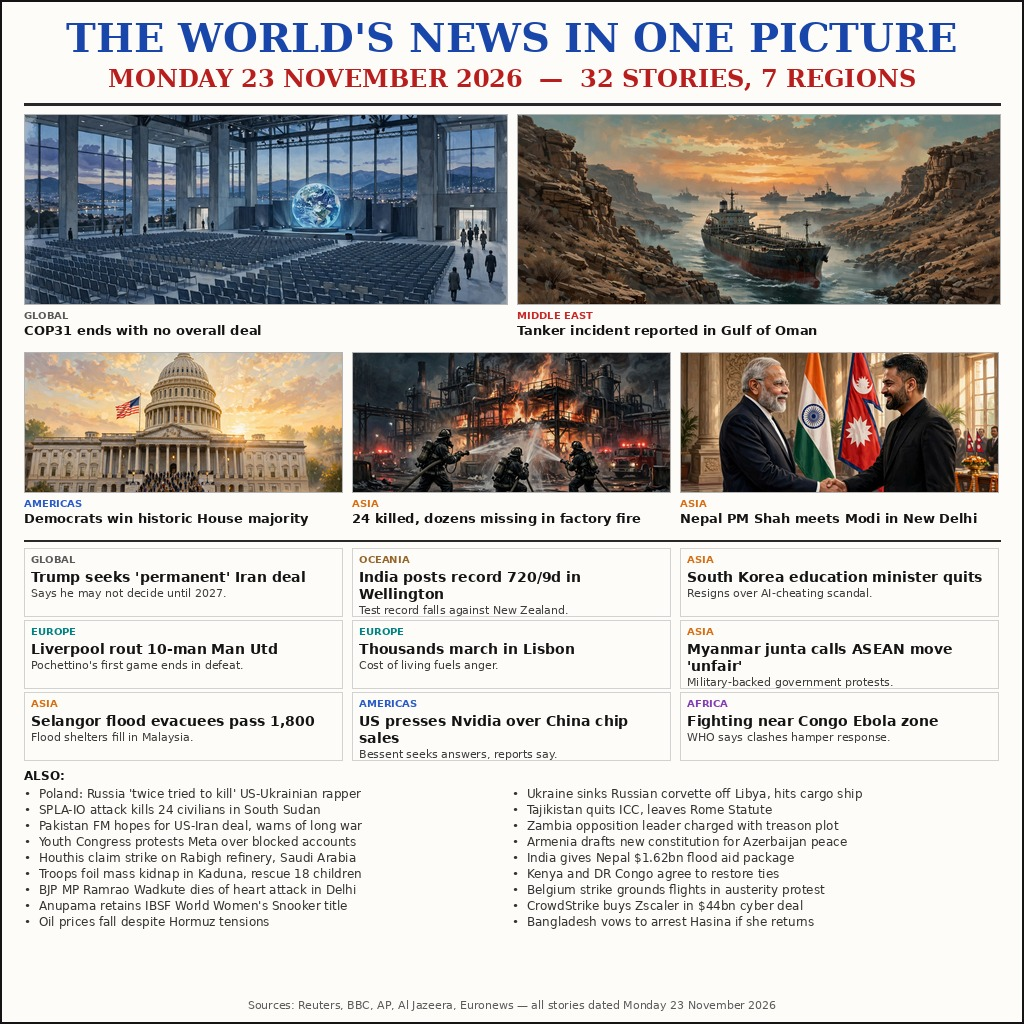
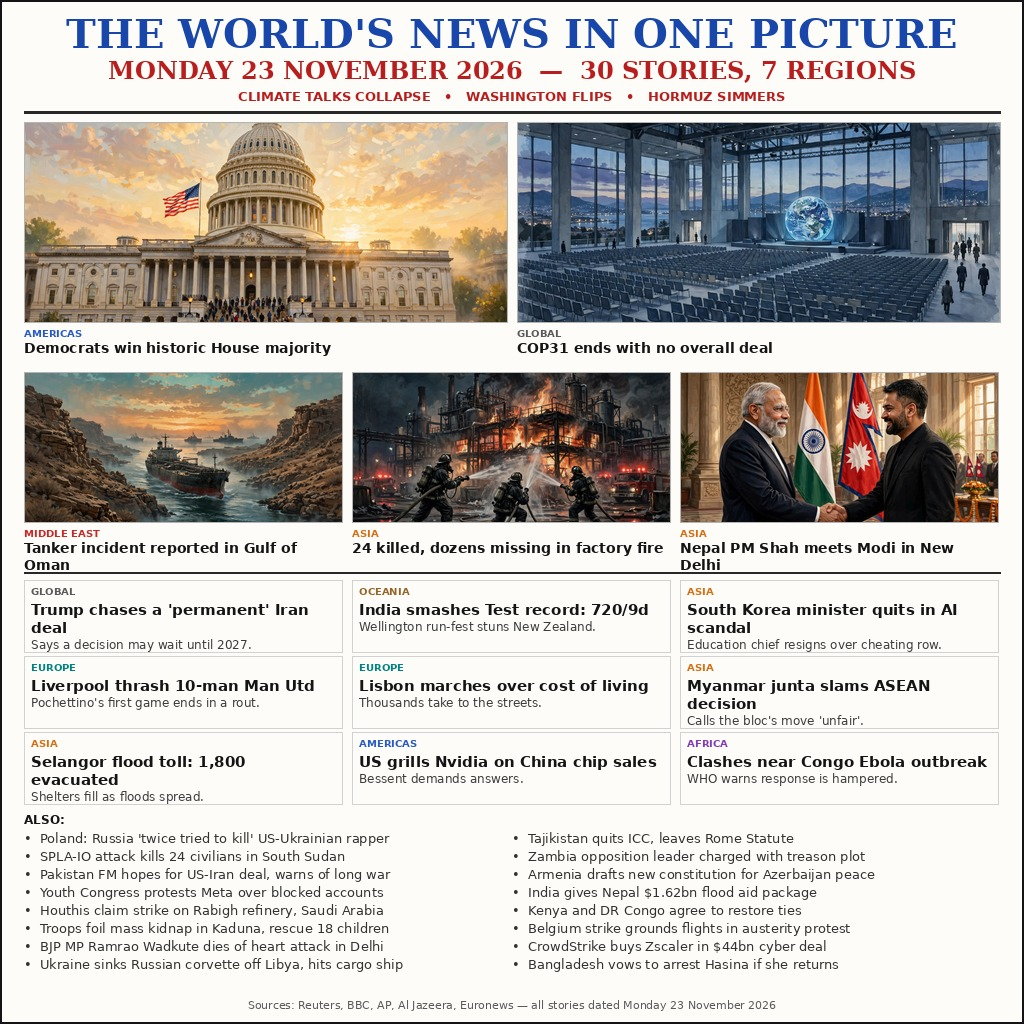
Submit #3 (final round): Washington leads, 30 stories, new angle

diff --git a/main.py b/main.py
@@ -1,18 +1,22 @@
 #!/usr/bin/env python3
-"""Round-2 front page for Monday 23 November 2026.
+"""Final-round front page for Monday 23 November 2026.
 
-The page is a single 1024x1024 picture that packs the day's world news
-into one frame: five illustrated lead stories, nine short text cards and
-eighteen one-line items, 32 stories across seven regions, under a blue
-masthead and a red dateline. The picture was drawn on the build machine
-and ships with this repository as ``assets/entry.jpg``.
+One 1024x1024 picture sums up the day: a historic Democratic majority
+in the US House leads the page, COP31 closing without an overall deal
+runs second, and a tanker incident in the Gulf of Oman follows. Under
+the blue masthead and the red dateline — with the kicker "CLIMATE TALKS
+COLLAPSE • WASHINGTON FLIPS • HORMUZ SIMMERS" — sit five illustrated
+lead stories, nine short text cards and sixteen one-line items: 30
+stories across seven regions, every one of them dated that Monday.
 
-This program only carries that picture to the grader's output. It reads
-the bundled JPEG, checks it is whole (start/end markers, a frame header
-saying 1024x1024, the recorded SHA-256 digest, under 1 MiB), then writes
-those exact bytes to ``$MAKEFUN_OUTPUT_DIR/entry.png`` (``/output`` when
-the variable is unset) with mode 0644. Standard library only, no
-network, no drawing at run time: two runs produce identical bytes.
+The picture was drawn on the build machine and ships with this
+repository as ``assets/entry.jpg``. This program only carries it to the
+grader's output: it reads the bundled JPEG, proves it is whole (start
+and end markers, a frame header saying 1024x1024, the recorded SHA-256
+digest, under 1 MiB), then writes those exact bytes to
+``$MAKEFUN_OUTPUT_DIR/entry.png`` (``/output`` when the variable is
+unset) with mode 0644. Standard library only, no network, no drawing
+at run time: two runs produce identical bytes.
 """
 
 import hashlib
@@ -23,7 +27,7 @@ import sys
 BASE = os.path.dirname(os.path.abspath(__file__))
 BUNDLED = os.path.join(BASE, "assets", "entry.jpg")
 EXPECTED_DIGEST = (
[2 lines of base64/hex data omitted]
 )
 EXPECT_W = 1024
 EXPECT_H = 1024

diff --git a/README.md b/README.md
@@ -1,27 +1,34 @@
-# Monday 23 November 2026 — the world in one picture
+# Washington flips, climate talks collapse — Monday 23 November 2026 in one picture
 
 [![make.fun · news-image-20261123](https://make.fun/badge/news-image-20261123.svg)](https://make.fun/bounty/news-image-20261123?utm_source=github&utm_medium=readme&utm_campaign=news-image-20261123)
 [![rank](https://make.fun/badge/news-image-20261123/kara93-code/news-image-20261123/rank.svg)](https://make.fun/bounty/news-image-20261123/leaderboard?utm_source=github&utm_medium=readme&utm_campaign=news-image-20261123)
 [![reward](https://make.fun/badge/news-image-20261123/kara93-code/news-image-20261123/reward.svg)](https://make.fun/bounty/news-image-20261123?utm_source=github&utm_medium=readme&utm_campaign=news-image-20261123)
 
-A single front page for Monday 23 November 2026, drawn as one picture:
-COP31 closing without an overall deal, a historic Democratic majority in
-the US House, and the tanker incident in the Gulf of Oman lead the page.
-Under them, 32 stories from that Monday — climate talks, the US–Iran
-standoff, a factory fire in Indonesia, Nepal's prime minister in New
-Delhi, a record Test innings in Wellington, a Lisbon cost-of-living
-march, and more — spread over seven regions, with the date printed in red
-across the top so the day is never in doubt.
+One front page for Monday 23 November 2026, drawn as a single picture
+with a new angle on the day: the Democrats' historic House majority —
+the largest since 1992 — leads the page, COP31 closing without an
+overall deal runs second, and the tanker incident in the Gulf of Oman
+follows. The red kicker under the date says what the day was:
+"CLIMATE TALKS COLLAPSE • WASHINGTON FLIPS • HORMUZ SIMMERS". Under
+the five illustrated leads sit nine short text cards and sixteen
+one-line items — 30 stories from that Monday across seven regions,
+from the US–Iran standoff and the factory fire in Indonesia to Nepal's
+prime minister in New Delhi, a record Test innings in Wellington and
+a Lisbon cost-of-living march — with the date printed in red across
+the top so the day is never in doubt.
 
-This is the second version of the entry. The first carried 24 stories and
-scored 59.02% in the opening blind round, outside the prize places, so
-this rebuild keeps its five illustrated leads and adds nine more stories
-first reported on 23 November: Ukraine's corvette sinking off Libya,
-Tajikistan leaving the ICC, a treason charge in Zambia, Armenia's draft
-constitution, India's $1.62bn package for Nepal, Kenya and DR Congo
-restoring ties, the Belgian airport strike, CrowdStrike's $44bn Zscaler
-deal, and Bangladesh's vow on Hasina's return. The factory-fire lead now
-carries the toll confirmed that day: 24 killed, dozens still missing.
+This is the third version of the entry, built for the final blind
+round. The first carried 24 stories and scored 59.02% in round 1;
+the second squeezed in 32 and fell to 47.23% in round 2 — both outside
+the prize places. The cramped second version taught the lesson: at
+preview size, dense small type reads as grey texture. So this rebuild
+keeps the proven five-illustration hybrid frame but changes the angle
+and gives the words room to breathe — a new lead order, a kicker line,
+larger type everywhere, taller lead images, and 30 stories instead of
+32 squeezed ones. The two weakest items from the second version are
+gone (a snooker title and an oil-price line that duplicated the Hormuz
+lead); the factory-fire lead still carries the toll confirmed that
+day: 24 killed, dozens still missing.
 
 ## What is in here
 
